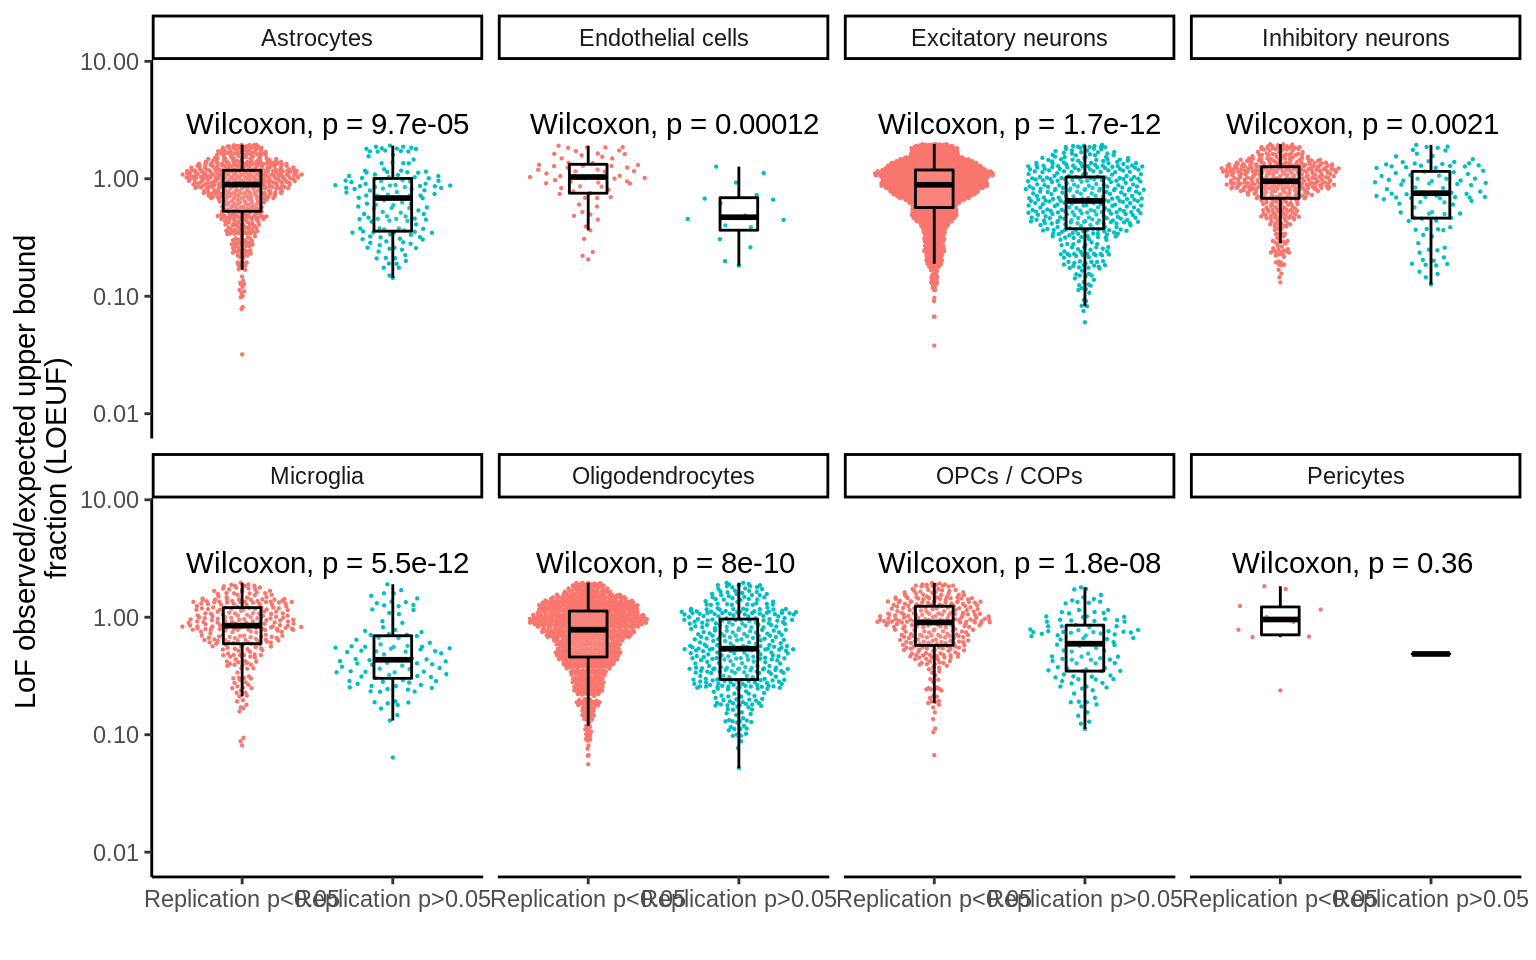
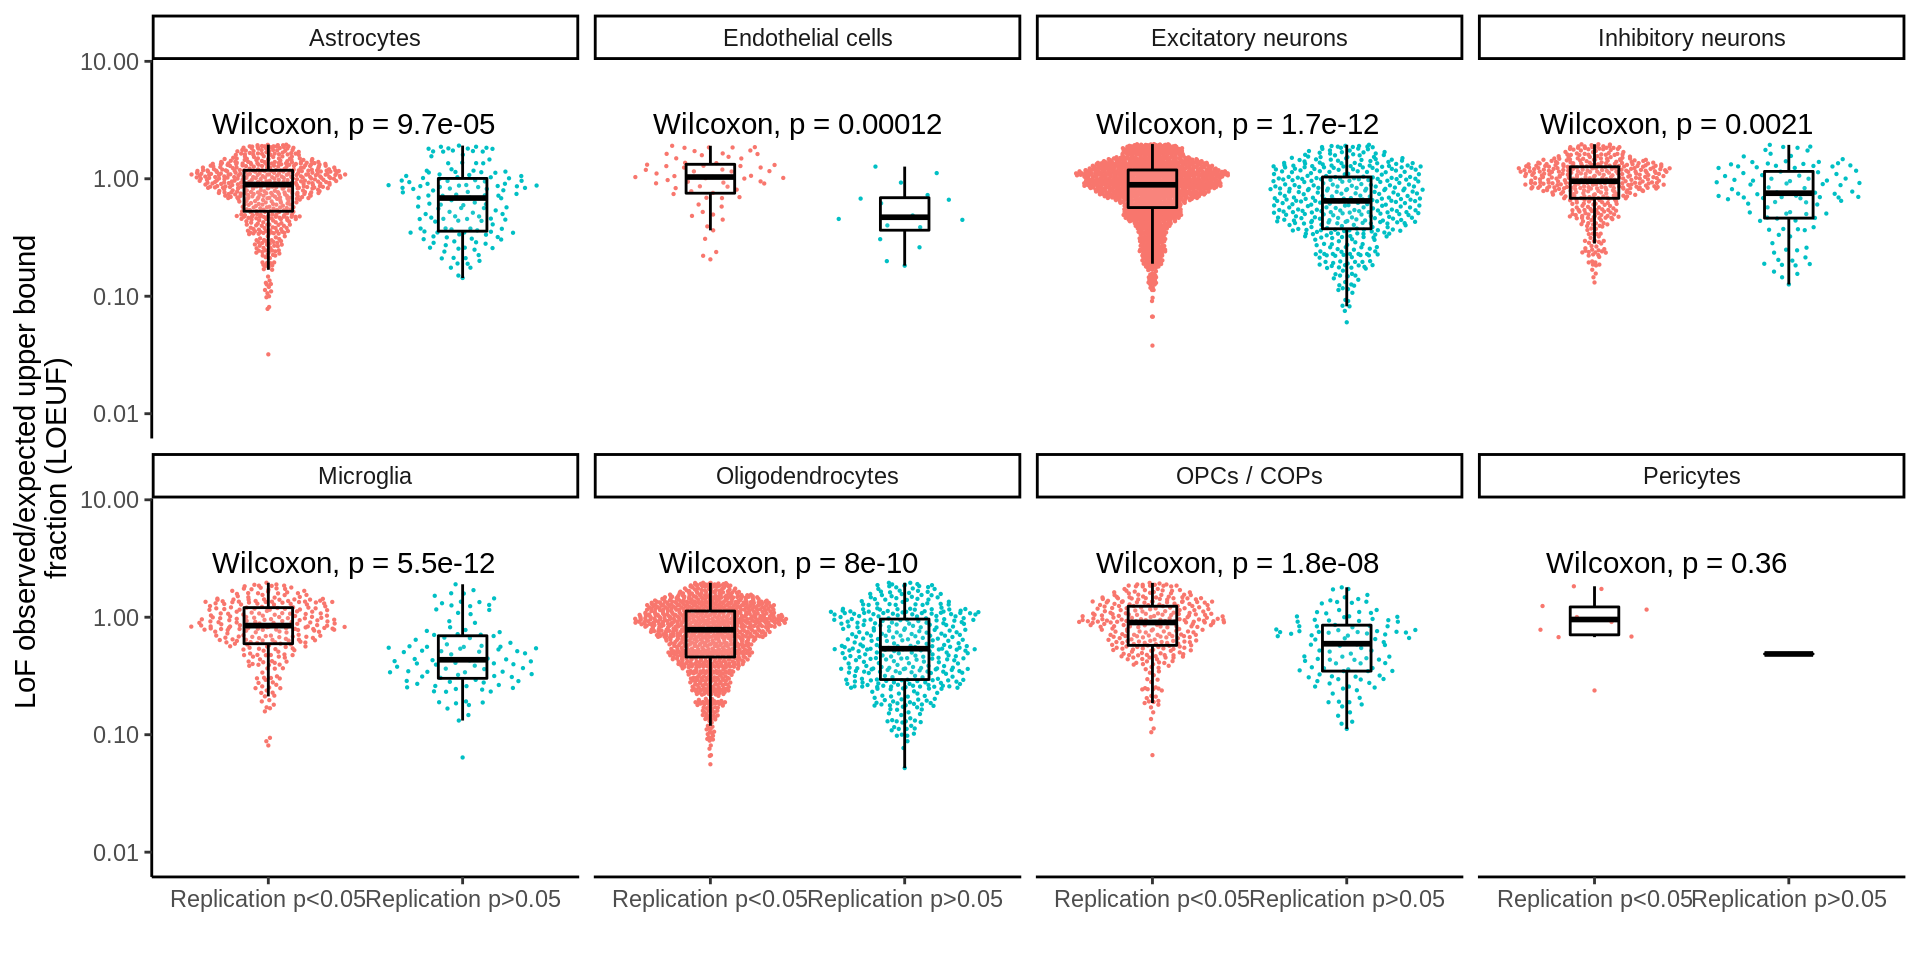
Build site.

diff --git a/docs/plot_figures.html b/docs/plot_figures.html
@@ -25,6 +25,7 @@
 <link href="site_libs/tocify-1.9.1/jquery.tocify.css" rel="stylesheet" />
 <script src="site_libs/tocify-1.9.1/jquery.tocify.js"></script>
 <script src="site_libs/navigation-1.1/tabsets.js"></script>
+<script src="site_libs/navigation-1.1/codefolding.js"></script>
 <link href="site_libs/highlightjs-9.12.0/textmate.css" rel="stylesheet" />
 <script src="site_libs/highlightjs-9.12.0/highlight.js"></script>
 
@@ -258,6 +259,9 @@ $(document).ready(function () {
 </style>
 
 <!-- code folding -->
+<style type="text/css">
+.code-folding-btn { margin-bottom: 4px; }
+</style>
 
 
 
@@ -375,6 +379,14 @@ div.tocify {
 </div><!--/.navbar -->
 
 <div class="fluid-row" id="header">
+
+<div class="btn-group pull-right">
+<button type="button" class="btn btn-default btn-xs dropdown-toggle" data-toggle="dropdown" aria-haspopup="true" aria-expanded="false"><span>Code</span> <span class="caret"></span></button>
+<ul class="dropdown-menu" style="min-width: 50px;">
+<li><a id="rmd-show-all-code" href="#">Show All Code</a></li>
+<li><a id="rmd-hide-all-code" href="#">Hide All Code</a></li>
+</ul>
+</div>
 
 
 
@@ -496,16 +508,16 @@ This reproducible <a href="http://rmarkdown.rstudio.com">R Markdown</a> analysis
 <div class="panel panel-default">
 <div class="panel-heading">
 <p class="panel-title">
-<a data-toggle="collapse" data-parent="#workflowr-checks" href="#strongRepositoryversionstrong5719848"> <span class="glyphicon glyphicon-ok text-success" aria-hidden="true"></span> <strong>Repository version:</strong> 5719848 </a>
+<a data-toggle="collapse" data-parent="#workflowr-checks" href="#strongRepositoryversionstrong254b41e"> <span class="glyphicon glyphicon-ok text-success" aria-hidden="true"></span> <strong>Repository version:</strong> 254b41e </a>
 </p>
 </div>
-<div id="strongRepositoryversionstrong5719848" class="panel-collapse collapse">
+<div id="strongRepositoryversionstrong254b41e" class="panel-collapse collapse">
 <div class="panel-body">
 <p>
 Great! You are using Git for version control. Tracking code development and connecting the code version to the results is critical for reproducibility.
 </p>
 <p>
-The results in this page were generated with repository version 5719848. See the <em>Past versions</em> tab to see a history of the changes made to the R Markdown and HTML files.
+The results in this page were generated with repository version 254b41e. See the <em>Past versions</em> tab to see a history of the changes made to the R Markdown and HTML files.
 </p>
 <p>
 Note that you need to be careful to ensure that all relevant files for the analysis have been committed to Git prior to generating the results (you can use <code>wflow_publish</code> or <code>wflow_git_commit</code>). workflowr only checks the R Markdown file, but you know if there are other scripts or data files that it depends on. Below is the status of the Git repository when the results were generated:
@@ -572,6 +584,40 @@ Message
 </tr>
 </thead>
 <tbody>
+<tr>
+<td>
+Rmd
+</td>
+<td>
+254b41e
+</td>
+<td>
+Julien Bryois
+</td>
+<td>
+2021-12-01
+</td>
+<td>
+added_marker_figures - added code folding
+</td>
+</tr>
+<tr>
+<td>
+html
+</td>
+<td>
+19a5db5
+</td>
+<td>
+Julien Bryois
+</td>
+<td>
+2021-12-01
+</td>
+<td>
+Build site.
+</td>
+</tr>
 <tr>
 <td>
 Rmd
@@ -1373,7 +1419,7 @@ Julien Bryois
 
 ggsave(p,filename=&#39;output/Figures/shared_prop_metabrain_cortex.replication.TSS.dist.pdf&#39;,width=12,height=3)
 p</code></pre>
-<p><img src="figure/plot_figures.Rmd/unnamed-chunk-34-1.png" width="768" style="display: block; margin: auto;" /></p>
+<p><img src="figure/plot_figures.Rmd/unnamed-chunk-34-1.png" width="960" style="display: block; margin: auto;" /></p>
 <p>
 <button type="button" class="btn btn-default btn-xs btn-workflowr btn-workflowr-fig" data-toggle="collapse" data-target="#fig-unnamed-chunk-34-1">
 Past versions of unnamed-chunk-34-1.png
@@ -1396,6 +1442,17 @@ Date
 </tr>
 </thead>
 <tbody>
+<tr>
+<td>
+19a5db5
+</td>
+<td>
+Julien Bryois
+</td>
+<td>
+2021-12-01
+</td>
+</tr>
 <tr>
 <td>
 056f5c7
@@ -1434,7 +1491,7 @@ Julien Bryois
 
 ggsave(p,filename=&#39;output/Figures/shared_prop_metabrain_cortex.replication.LOEUF.dist.pdf&#39;,width=12,height=3)
 p</code></pre>
-<p><img src="figure/plot_figures.Rmd/unnamed-chunk-37-1.png" width="768" style="display: block; margin: auto;" /></p>
+<p><img src="figure/plot_figures.Rmd/unnamed-chunk-37-1.png" width="960" style="display: block; margin: auto;" /></p>
 <p>
 <button type="button" class="btn btn-default btn-xs btn-workflowr btn-workflowr-fig" data-toggle="collapse" data-target="#fig-unnamed-chunk-37-1">
 Past versions of unnamed-chunk-37-1.png
@@ -1457,6 +1514,17 @@ Date
 </tr>
 </thead>
 <tbody>
+<tr>
+<td>
+19a5db5
+</td>
+<td>
+Julien Bryois
+</td>
+<td>
+2021-12-01
+</td>
+</tr>
 <tr>
 <td>
 056f5c7
@@ -1577,6 +1645,11 @@ $(document).ready(function () {
 </script>
 
 <!-- code folding -->
+<script>
+$(document).ready(function () {
+  window.initializeCodeFolding("hide" === "show");
+});
+</script>
 
 <script>
 $(document).ready(function ()  {
